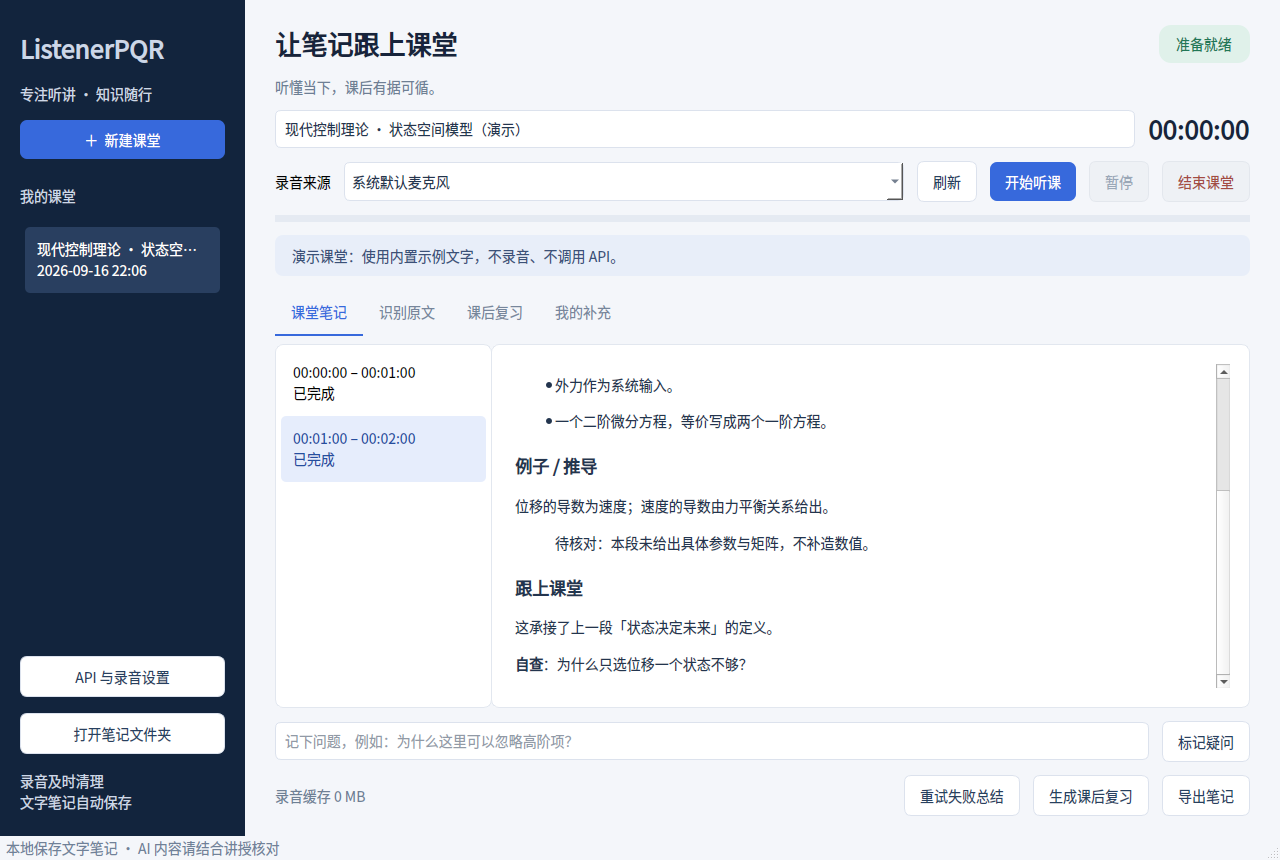
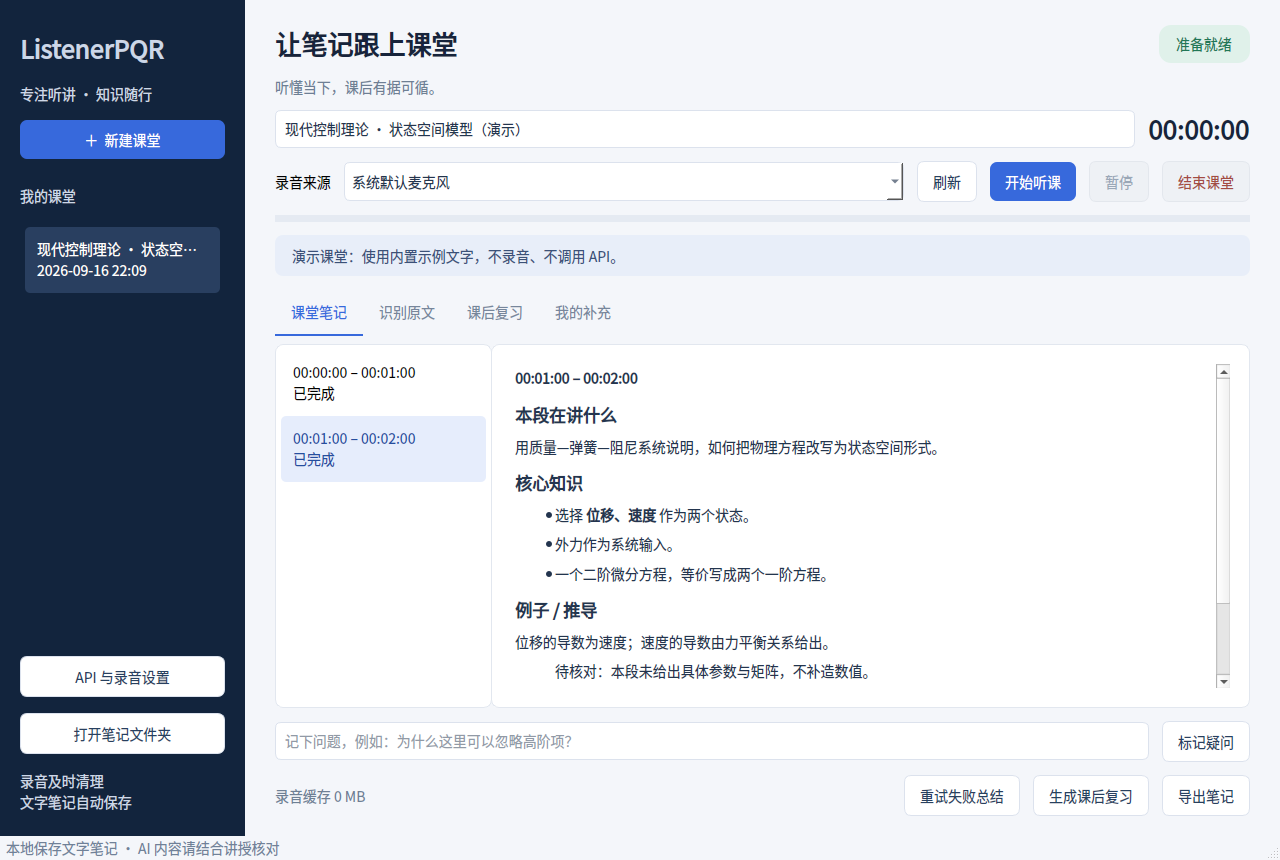
Keep notes scrolled to the start and verify threaded recording pipeline

Changed region(s): [[0.4062, 0.4233, 0.75, 0.786]]

diff --git a/tests/test_pipeline.py b/tests/test_pipeline.py
@@ -239,3 +239,63 @@ def test_overview_includes_every_segment():
     assert result == "compressed"
     for i in range(30):
         assert f"SEGMENT-{i}:" in "".join(calls)
+
+
+def test_recording_and_worker_threads_process_final_partial(state, monkeypatch):
+    import sys
+    import types
+    store, sid, cache = state
+    delivered = threading.Event()
+    events = []
+
+    class FakeStream:
+        active = True
+
+        def __init__(self, **kwargs):
+            self.callback = kwargs["callback"]
+
+        def __enter__(self):
+            def send_audio():
+                for _ in range(25):
+                    self.callback(np.full(1600, 2000, dtype=np.int16).tobytes(), 1600, None, None)
+                    time.sleep(0.005)
+                delivered.set()
+            self.thread = threading.Thread(target=send_audio)
+            self.thread.start()
+            return self
+
+        def stop(self):
+            self.thread.join()
+            self.active = False
+
+        def __exit__(self, *args):
+            self.stop()
+
+    monkeypatch.setitem(sys.modules, "sounddevice", types.SimpleNamespace(
+        check_input_settings=lambda **kwargs: None, RawInputStream=FakeStream, PortAudioError=RuntimeError))
+
+    class Client:
+        def __init__(self): self.cancel = threading.Event()
+        def transcribe(self, path): return "课堂内容"
+        def summarize(self, *args): return "课堂总结"
+
+    emit = lambda *event: events.append(event)
+    worker = Engine(store, cache, Client(), emit)
+    recorder = Recorder(store, cache, sid, None, 1, -50, time.monotonic(), emit)
+    worker.start(); recorder.start()
+    try:
+        assert delivered.wait(3)
+        recorder.stop(); recorder.thread.join(timeout=3)
+        deadline = time.monotonic() + 4
+        while time.monotonic() < deadline:
+            chunks = store.chunks(sid)
+            if len(chunks) == 3 and all(c["status"] == "done" for c in chunks):
+                break
+            time.sleep(0.02)
+        assert len(chunks) == 3 and all(c["status"] == "done" for c in chunks)
+        assert chunks[-1]["end"] - chunks[-1]["start"] == pytest.approx(0.5)
+        assert cache.size() == 0
+        assert not any(e[0] == "record_error" for e in events)
+    finally:
+        recorder.stop(); recorder.thread.join(timeout=3)
+        worker.stop_event.set(); worker.thread.join(timeout=3)

diff --git a/listenerpqr/ui.py b/listenerpqr/ui.py
@@ -94,12 +94,14 @@ class SafeBrowser(QTextBrowser):
         while block.isValid():
             cursor = QTextCursor(block)
             fmt = block.blockFormat()
-            fmt.setLineHeight(145, QTextBlockFormat.LineHeightTypes.ProportionalHeight.value)
-            fmt.setBottomMargin(6)
+            fmt.setLineHeight(125, QTextBlockFormat.LineHeightTypes.ProportionalHeight.value)
+            fmt.setBottomMargin(3)
             if fmt.headingLevel():
-                fmt.setTopMargin(12)
+                fmt.setTopMargin(8)
             cursor.setBlockFormat(fmt)
             block = block.next()
+        self.setTextCursor(QTextCursor(self.document()))
+        self.verticalScrollBar().setValue(0)
 
 
 class SettingsDialog(QDialog):
